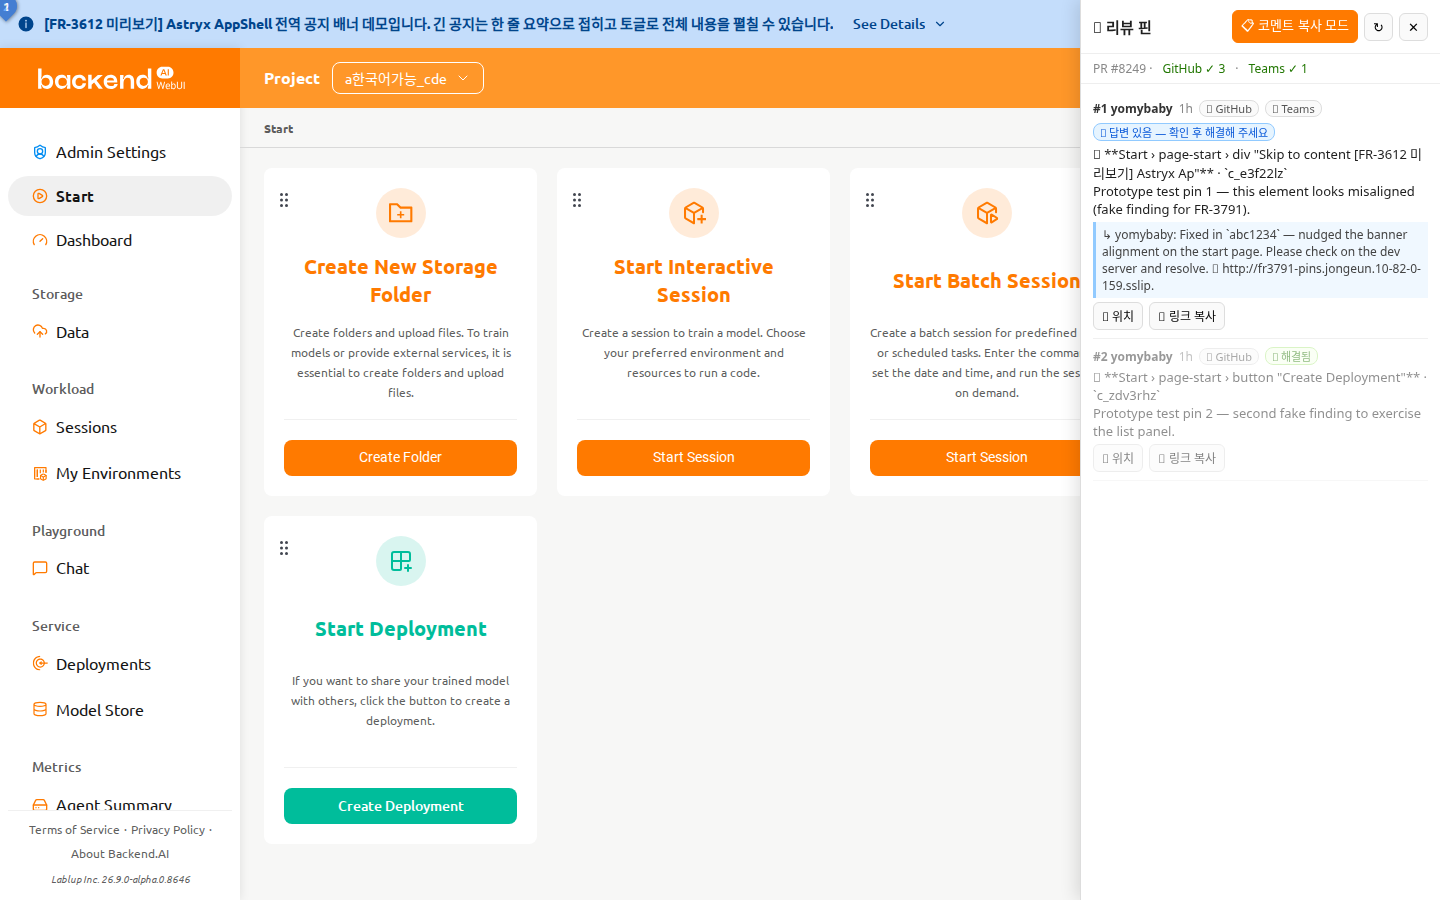
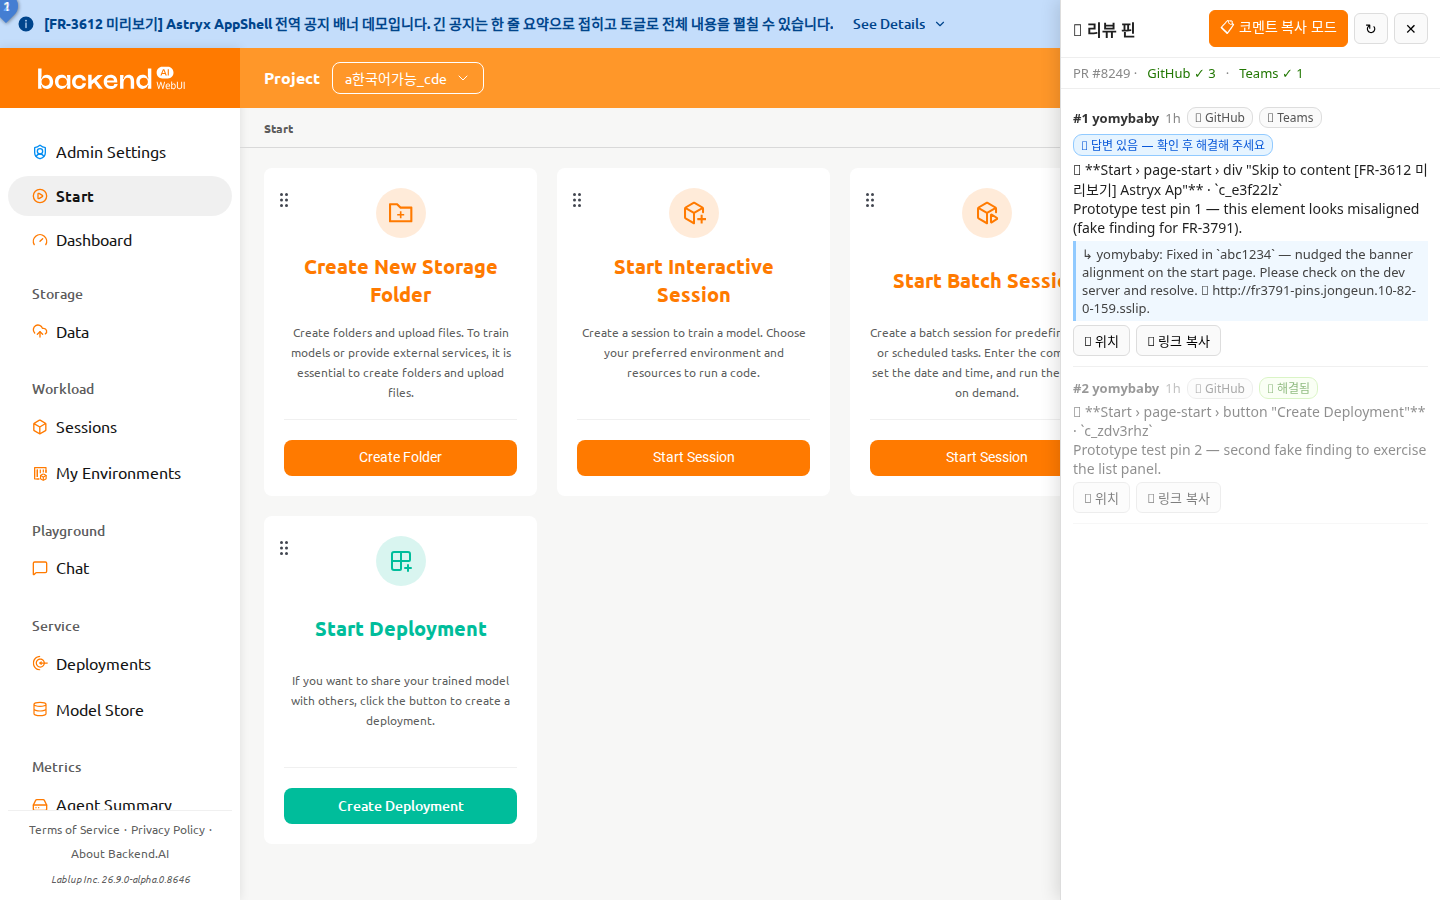
prototype(FR-3791): verbatim react-grab stack + larger panel typography
Two driver reactions:
- use React Grab's getStackContext output as-is (full component stack
  with source locations) instead of a single nearest-component line, in
  both the copied block and the compose preview
- panel text still too small after the first bump: body 13→14, meta
  12→13, badges 11→12, header 15→16, buttons 13→14, pins 22→24px,
  panel 360→380px

Claude-Session: https://claude.ai/code/session_01SBkEj3rDffVHm1gVd1Avyw

Changed region(s): [[0.7188, 0.0, 1.0, 0.56], [0.7188, 0.5911, 0.75, 0.9644], [0.875, 0.4978, 0.9688, 0.5289]]

diff --git a/react/vite-plugins/reviewOverlayClient.js b/react/vite-plugins/reviewOverlayClient.js
@@ -311,7 +311,7 @@
       font-size: 11px; margin-left: 6px;
     }
     .panel {
-      position: fixed; top: 0; right: 0; bottom: 0; width: 360px;
+      position: fixed; top: 0; right: 0; bottom: 0; width: 380px;
       z-index: 2147483000; background: #fff; border-left: 1px solid #ddd;
       box-shadow: -4px 0 16px rgba(0,0,0,.12); display: none;
       flex-direction: column; color: #1f1f1f;
@@ -319,36 +319,36 @@
     .panel.open { display: flex; }
     .panel header {
       padding: 10px 12px; border-bottom: 1px solid #eee; font-weight: 700;
-      font-size: 15px; display: flex; align-items: center; gap: 6px; flex-wrap: wrap;
+      font-size: 16px; display: flex; align-items: center; gap: 6px; flex-wrap: wrap;
     }
     .panel header .spacer { flex: 1; }
     .iconbtn {
       border: 1px solid #ddd; background: #fafafa; border-radius: 6px;
-      cursor: pointer; font-size: 13px; padding: 4px 8px;
+      cursor: pointer; font-size: 14px; padding: 5px 10px;
     }
     .iconbtn.primary { background: #ff7a00; border-color: #ff7a00; color: #fff; }
     .srcline {
-      padding: 6px 12px; border-bottom: 1px solid #eee; font-size: 12px;
+      padding: 6px 12px; border-bottom: 1px solid #eee; font-size: 13px;
       color: #888; display: flex; gap: 10px; flex-wrap: wrap;
     }
     .srcline .ok { color: #237804; }
     .srcline .bad { color: #c0392b; }
     .items { flex: 1; overflow-y: auto; padding: 8px 12px; }
-    .item { border-bottom: 1px solid #f0f0f0; padding: 8px 0; font-size: 13px; }
+    .item { border-bottom: 1px solid #f0f0f0; padding: 10px 0; font-size: 14px; }
     .item.resolved { opacity: .5; }
     .item.hl { background: #fff7e6; margin: 0 -6px; padding: 8px 6px; border-radius: 6px; }
-    .item .meta { color: #888; font-size: 12px; margin-bottom: 3px; display: flex; gap: 6px; align-items: center; flex-wrap: wrap; }
+    .item .meta { color: #888; font-size: 13px; margin-bottom: 3px; display: flex; gap: 6px; align-items: center; flex-wrap: wrap; }
     .item .meta .author { color: #333; font-weight: 600; }
     .item .body { white-space: pre-wrap; word-break: break-word; }
     .item .lastreply {
       margin-top: 4px; padding: 4px 6px; border-left: 3px solid #91caff;
-      background: #f0f8ff; color: #444; font-size: 12px;
+      background: #f0f8ff; color: #444; font-size: 13px;
       white-space: pre-wrap; word-break: break-word;
     }
     .item .actions { margin-top: 4px; display: flex; gap: 6px; }
-    .item .actions button { font-size: 12px; }
+    .item .actions button { font-size: 13px; }
     .badge {
-      font-size: 11px; border-radius: 8px; padding: 0 6px; border: 1px solid;
+      font-size: 12px; border-radius: 9px; padding: 1px 7px; border: 1px solid;
     }
     .badge.resolved { color: #237804; background: #f6ffed; border-color: #b7eb8f; }
     .badge.replied { color: #0958d9; background: #e6f4ff; border-color: #91caff; }
@@ -361,18 +361,18 @@
       margin: 10px 0 2px;
     }
     .section.other { color: #555; background: #fafafa; border-color: #ddd; }
-    .empty { color: #aaa; font-size: 13px; text-align: center; padding: 24px 0; }
+    .empty { color: #aaa; font-size: 14px; text-align: center; padding: 24px 0; }
     .hoverbox {
       position: fixed; z-index: 2147482998; pointer-events: none; display: none;
       border: 2px solid #ff7a00; border-radius: 3px;
       background: rgba(255,122,0,.08);
     }
     .pin {
-      position: absolute; z-index: 2147482999; width: 22px; height: 22px;
-      margin: -11px 0 0 -11px; border-radius: 50% 50% 50% 0;
+      position: absolute; z-index: 2147482999; width: 24px; height: 24px;
+      margin: -12px 0 0 -12px; border-radius: 50% 50% 50% 0;
       transform: rotate(-45deg); background: #ff7a00; color: #fff;
       display: flex; align-items: center; justify-content: center;
-      font-size: 11px; font-weight: 700; cursor: pointer; pointer-events: auto;
+      font-size: 12px; font-weight: 700; cursor: pointer; pointer-events: auto;
       box-shadow: 0 1px 4px rgba(0,0,0,.35);
     }
     .pin > span { transform: rotate(45deg); }
@@ -393,11 +393,11 @@
       box-shadow: 0 4px 18px rgba(0,0,0,.2); display: none;
     }
     .compose .pathlabel {
-      font-size: 11px; color: #888; margin-bottom: 4px; word-break: break-all;
+      font-size: 12px; color: #888; margin-bottom: 4px; word-break: break-all;
       white-space: pre-line; max-height: 96px; overflow-y: auto;
     }
     .compose textarea {
-      width: 100%; height: 64px; font-size: 13px; padding: 6px;
+      width: 100%; height: 64px; font-size: 14px; padding: 6px;
       border: 1px solid #ddd; border-radius: 6px; resize: vertical;
     }
     .compose .actions { display: flex; justify-content: flex-end; gap: 6px; margin-top: 6px; }
@@ -405,7 +405,7 @@
     .toast {
       position: fixed; z-index: 2147483002; left: 50%; bottom: 64px;
       transform: translateX(-50%); background: #1f1f1f; color: #fff;
-      font-size: 13px; padding: 8px 14px; border-radius: 16px; display: none;
+      font-size: 14px; padding: 8px 14px; border-radius: 16px; display: none;
       max-width: 70vw;
     }
   `;
